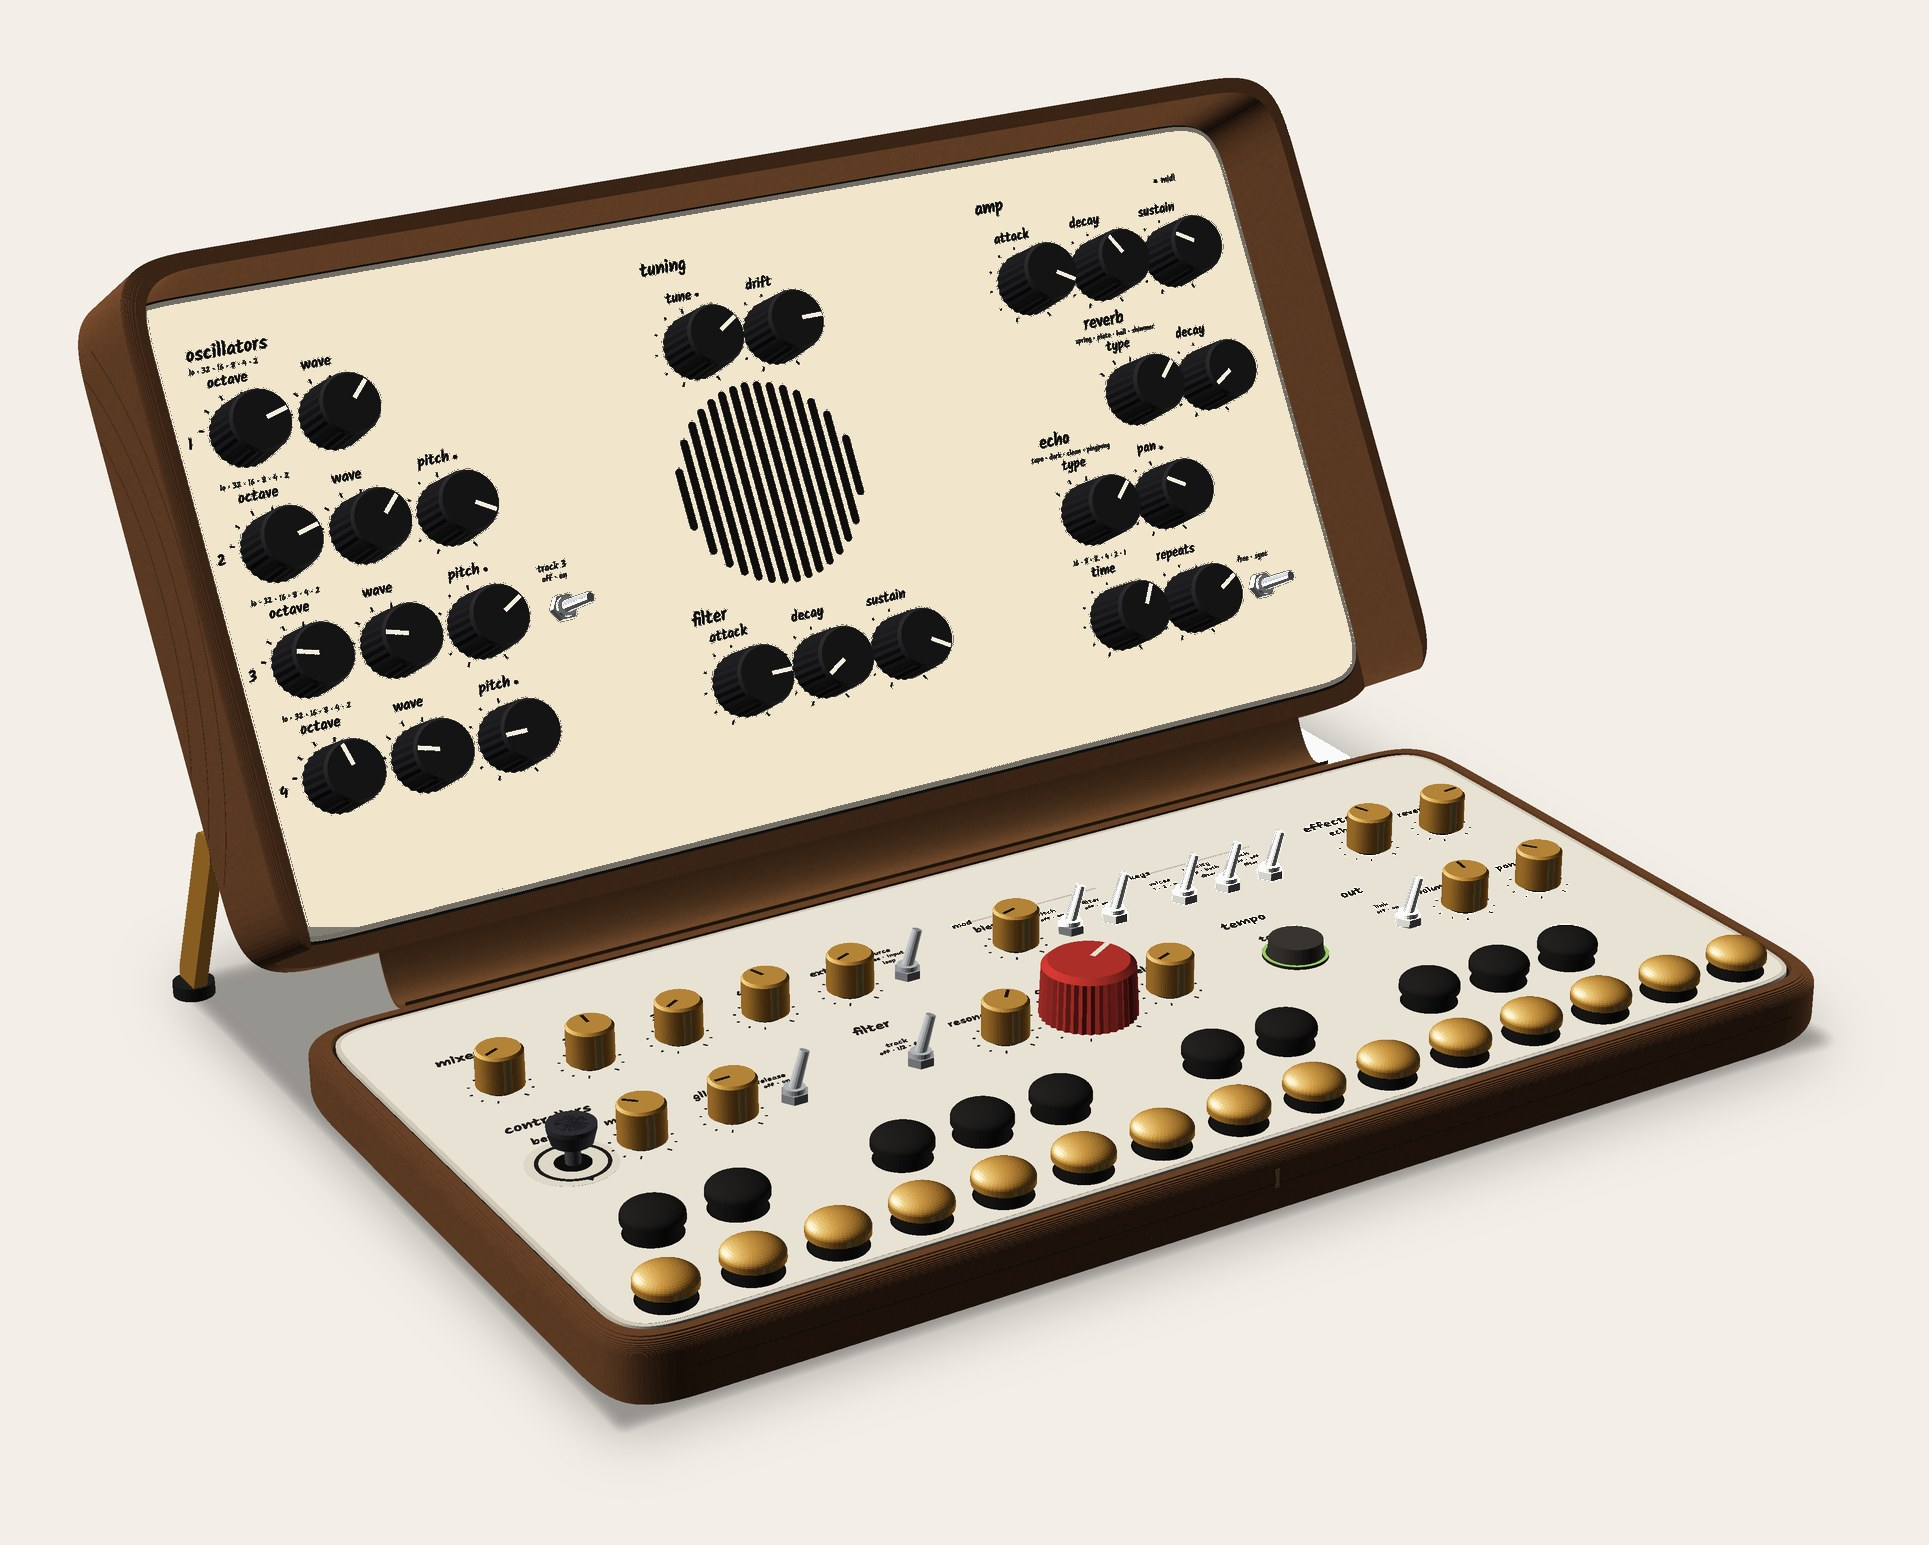
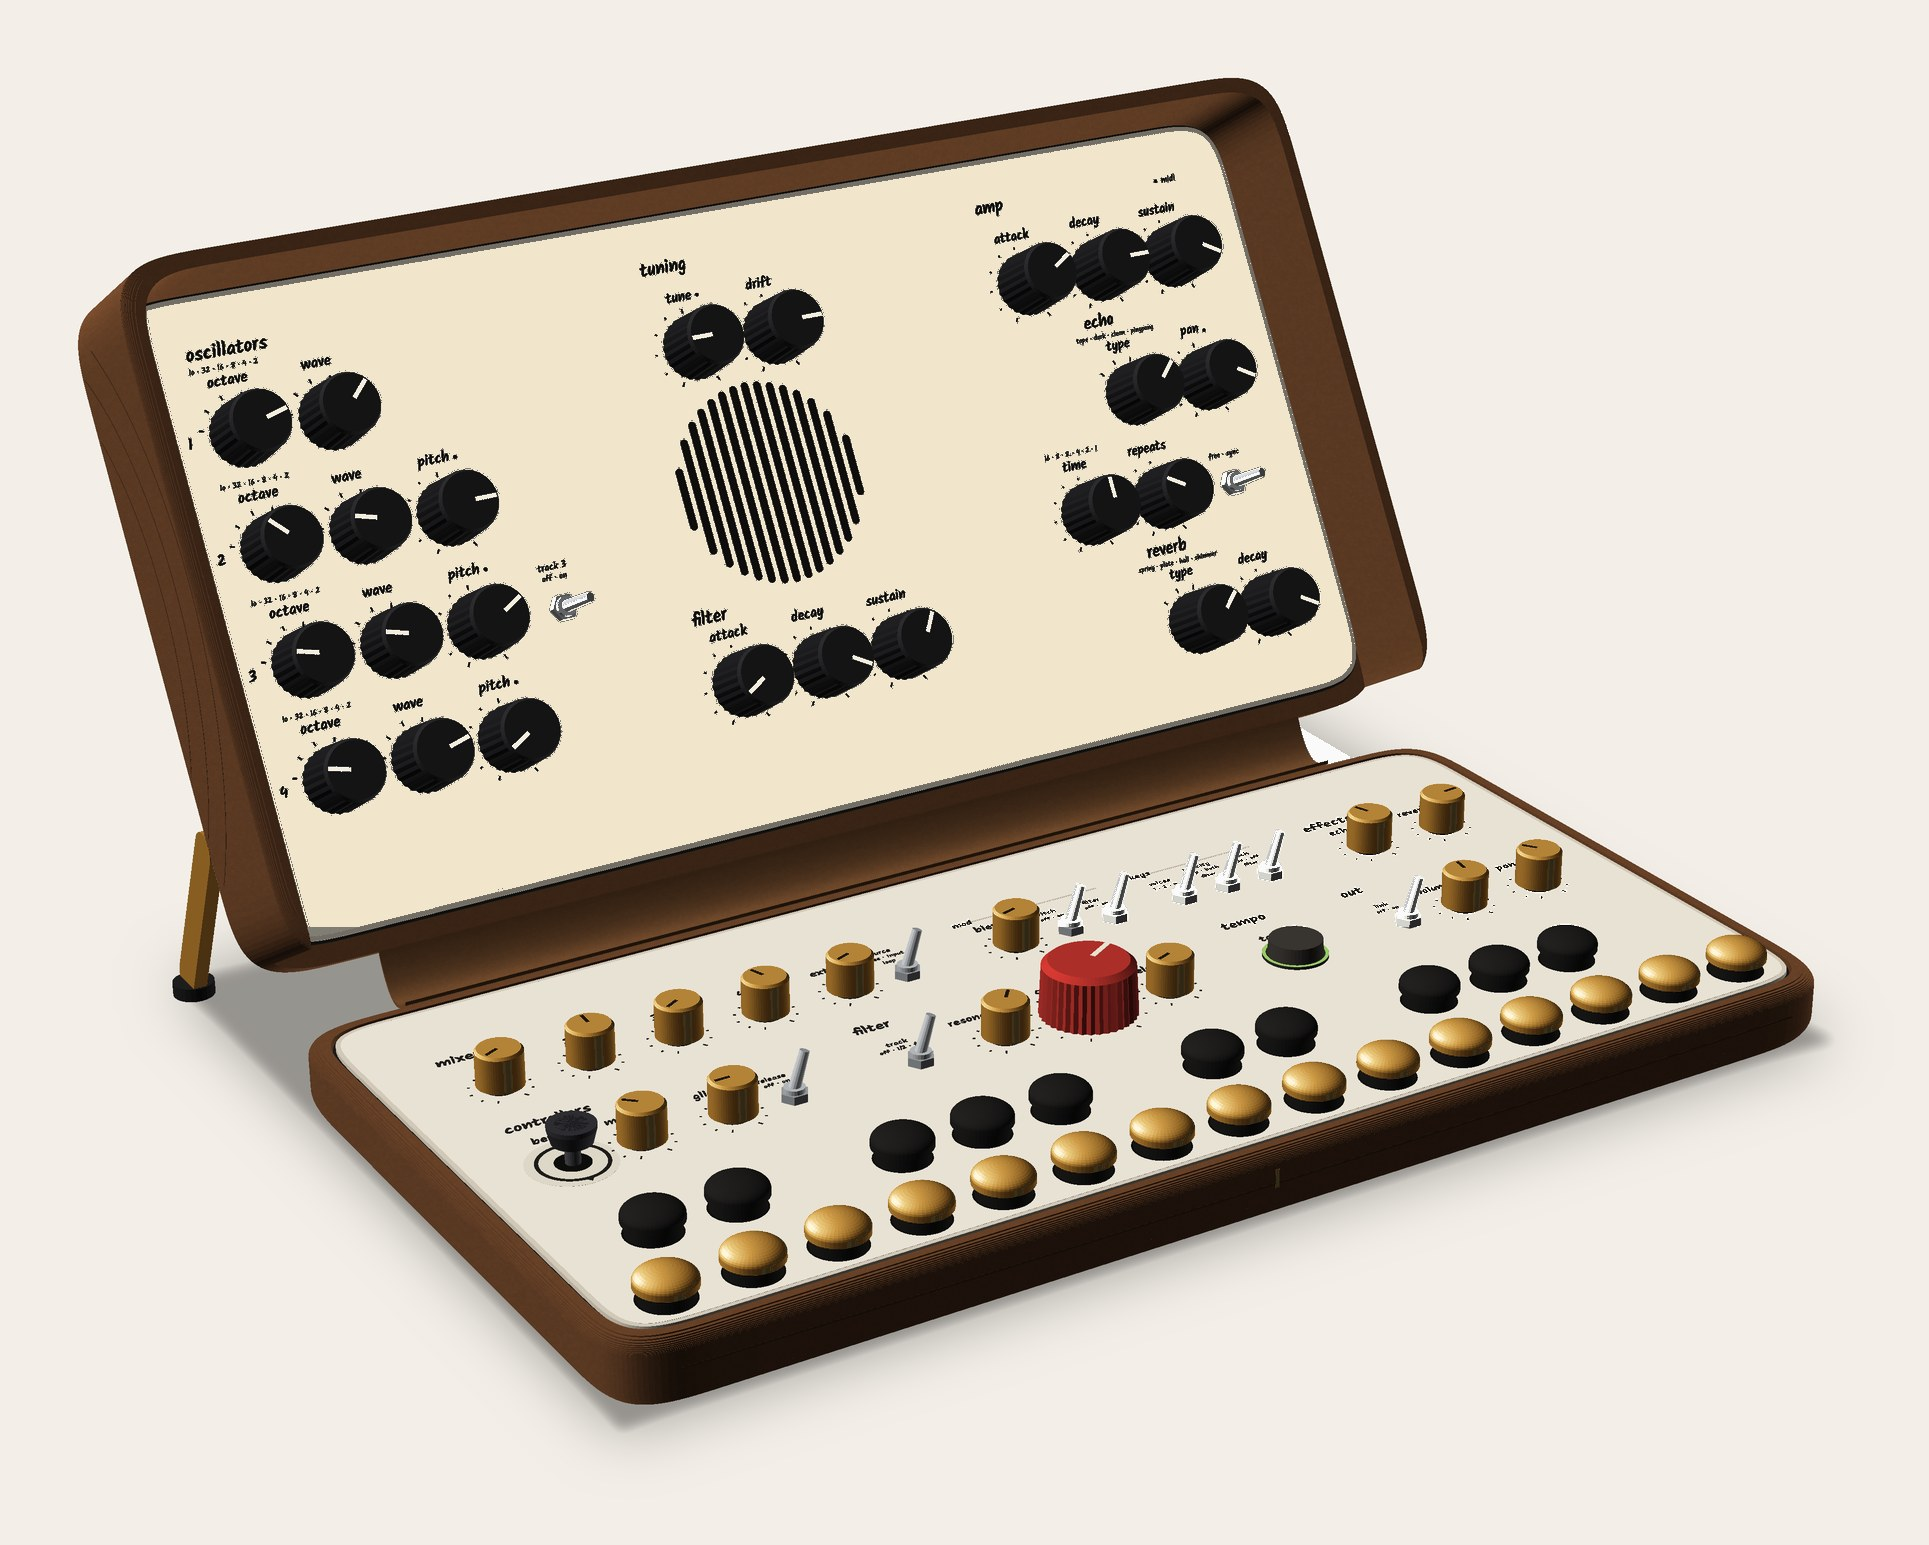
CATHEDRAL T4-sig and T2 (b2783bc), visual: tops and standing; T4 family draws the full-height stick; real-Kalam 0

Changed region(s): [[0.5599, 0.2796, 0.6843, 0.435], [0.5288, 0.2796, 0.591, 0.3107], [0.5599, 0.1864, 0.591, 0.2175]]

diff --git a/design/concepts/_mock-src/rb.py b/design/concepts/_mock-src/rb.py
@@ -2230,7 +2230,7 @@ class Nave(Cathedral):
                 s += txt(x, top - hn - 0.9 - hp / 2, z, pos, lc.NS, ink, font=st.font)
                 continue
             if n == "BEND stick":
-                if getattr(lc, "VARIANT", "") in P5O_FAMILY + ("T2", "T4"):   # steer 5: P5O's octave 2 (and T2 / T4, 8dfdbf0) lands 1.6 from it closed, so it's
+                if getattr(lc, "VARIANT", "") in P5O_FAMILY + ("T2",):   # steer 5: P5O's octave 2 (and T2, 8dfdbf0; T4 closes at full height since 4b1c3ee) lands 1.6 from it closed, so it's
                     s += stick_low(x, y, z, ink)          #   lowered to 9.0 (systems §19.4) for R-LOW's 55.2
                 else:
                     s += joystick(x, y, z, ink)  # steer 4 (systems §18.3): nothing on the lid lands over it now, so no lowering
@@ -2359,6 +2359,8 @@ def jobs(SZ):
         **{f"rb_s11_P5RS{v}_top": (lambda v=v: (lambda n: top4(n.model(True), f"rb_s11_P5RS{v}_top", -2, -2, W + 2, 2 * n.D + 4, px_per_mm=8, grain_classes=()))(nave_env("P5RS", CATHEDRAL_RS_TUNING=v))) for v in "ab"},
         **{f"rb_s11_P5RS{v}_stand": (lambda v=v: (lambda n: shot4(n.model("stand"), fp_rect(0, 0, W, n.D + 64), f"rb_s11_P5RS{v}_stand", size=SZ, az=-32, el=24, dist=860, center=(143, n.D * 0.6, 58), grain_classes=(), wood=True) and relight(os.path.join(OUT, f"rb_s11_P5RS{v}_stand.png")))(nave_env("P5RS", CATHEDRAL_RS_TUNING=v))) for v in "ab"},
         **{f"rb_s12_{v}_top": (lambda v=v: (lambda n: (top_tall if n.D > 140 else top4)(n.model(True), f"rb_s12_{v}_top", -2, -2, W + 2, 2 * n.D + 4, px_per_mm=9.96 if n.D > 140 else 8, grain_classes=()))(Nave(lid=v, spine="dark"))) for v in ("T1", "T2", "T3")},
+        "rb_s14_T4S_top": lambda: (lambda n: top4(n.model(True), "rb_s14_T4S_top", -2, -2, W + 2, 2 * n.D + 4, px_per_mm=8, grain_classes=()))(Nave(lid="T4S", spine="dark")),
+        "rb_s14_T4S_stand": lambda: (lambda n: shot4(n.model("stand"), fp_rect(0, 0, W, n.D + 64), "rb_s14_T4S_stand", size=SZ, az=-32, el=24, dist=860, center=(143, n.D * 0.6, 58), grain_classes=(), wood=True) and relight(os.path.join(OUT, "rb_s14_T4S_stand.png")))(Nave(lid="T4S", spine="dark")),
         "rb_s13_T4_top": lambda: (lambda n: top4(n.model(True), "rb_s13_T4_top", -2, -2, W + 2, 2 * n.D + 4, px_per_mm=8, grain_classes=()))(Nave(lid="T4", spine="dark")),
         "rb_s13_T4_stand": lambda: (lambda n: shot4(n.model("stand"), fp_rect(0, 0, W, n.D + 64), "rb_s13_T4_stand", size=SZ, az=-32, el=24, dist=860, center=(143, n.D * 0.6, 58), grain_classes=(), wood=True) and relight(os.path.join(OUT, "rb_s13_T4_stand.png")))(Nave(lid="T4", spine="dark")),
         **{f"rb_s12_{v}_stand": (lambda v=v: (lambda n: shot4(n.model("stand"), fp_rect(0, 0, W, n.D + 64), f"rb_s12_{v}_stand", size=SZ, az=-32, el=24, dist=860 if n.D < 140 else 900, center=(143, n.D * 0.6, 58 if n.D < 140 else 62), grain_classes=(), wood=True) and relight(os.path.join(OUT, f"rb_s12_{v}_stand.png")))(Nave(lid=v, spine="dark"))) for v in ("T1", "T2", "T3")},

diff --git a/design/branches/concepts/cathedral/how-it-looks-and-feels.md b/design/branches/concepts/cathedral/how-it-looks-and-feels.md
@@ -64,7 +64,7 @@ Owner, 16:19: "yes these categories look correct. *now* let's try and lay these 
 </figure>
 <figure>
 <img src="img/cathedral-s12-T2-top-9.9px-per-mm.png" alt="Exact top view of T2 open flat at D 147.3: four oscillators stacked at the lid's left, tuning over the window, amp top right, echo and reverb on the right, filter envelope under the window; the base with the mixer 1 to 4.">
-<figcaption><b>T2</b> (343c4d4): 4 oscillators, double-square face, D 147.3. The four oscillator rows are all 25 apart; the spare depth goes round the filter contour and reverb. The oscillators are on the margin with the mixer exactly under them; echo in two rows. 1 gap. The stick is lowered to 9.0.</figcaption>
+<figcaption><b>T2</b> (b2783bc): 4 oscillators, double-square face, D 147.3. The four oscillator rows are all 25 apart; the right column is echo over reverb, one module below the grid. The oscillators are on the margin with the mixer exactly under them; echo in two rows. 1 gap. The stick is lowered to 9.0.</figcaption>
 </figure>
 <figure>
 <img src="img/cathedral-s12-T3-top-9.9px-per-mm.png" alt="Exact top view of T3 open flat: three oscillators stacked at the lid's left with tuning under them, the filter contour and amp sharing the top row, echo and reverb on the right, and an open area under the window.">
@@ -80,6 +80,12 @@ Owner, 16:19: "yes these categories look correct. *now* let's try and lay these 
 <figcaption><b>T4</b> (4b1c3ee): 3 oscillators, √5, D 132. The bank sits 20 mm in, so the stick closes at full height. Tune · drift form their own group under the bank ("tuning" sub-heading and rule, words below the knobs, no numeral). Amp is over the window, the filter contour under it over CUTOFF; echo top right, reverb 35 under it. On the base, mod sits over bend · mod with keys beside it, and the mixer over the filter. 4 gaps, kept.</figcaption>
 </figure>
 <figure><img src="img/cathedral-s13-T4-standing.jpg" alt="T4 standing at 120 degrees."><figcaption>T4, standing.</figcaption></figure>
+
+<figure>
+<img src="img/cathedral-s14-T4S-top-9.9px-per-mm.png" alt="Exact top view of T4-sig open flat: as T4, but the right column runs echo type and pan on row 2, echo time, repeats and free · sync on row 3, and reverb type and decay directly under on row 4, at the same columns; the top row is open to the right of amp.">
+<figcaption><b>T4-sig</b> (b2783bc, §32.7): T4 with only its right column changed. Echo over reverb on shared columns (type · pan; time · repeats · free · sync; reverb type · decay under them), so the played echo controls are nearest the player and reverb lines up under echo. The top row is open right of amp. 5 gaps, kept. The stick is full height (T4's bank closes over it since 4b1c3ee; the s13 T4 renders still show it lowered). Real Kalam 0.</figcaption>
+</figure>
+<figure><img src="img/cathedral-s14-T4S-standing.jpg" alt="T4-sig standing at 120 degrees."><figcaption>T4-sig, standing.</figcaption></figure>
 
 - **T4, by eye (c0e7eec):** the most resolved. **Tuning doesn't read as a 4th oscillator row.** It has no numeral, a sub-heading with its hairline (the one sub-heading style, the same as mod and keys), only two knobs, and a 30 mm gap above it against 25 between the oscillator rows. The column pull (tune and drift sit in the octave / wave columns) is still there, but the sub-heading breaks it. Leave it. Since 3e29130 the free · sync switch prints "free · sync" alone, my fits are folded into the checker, and the base's rear row sits 1M further back.
 - **By eye:** T3 reads most like a synth's top row (both contours together, the Model D's own pairing), but it leaves the window's lower field empty. T1 / T2 put the filter contour under the window, nearest the base's filter group (rule H), at the cost of splitting the two contours. T2 is T1 with the fourth oscillator. Its deeper face carries the extra row without crowding.
